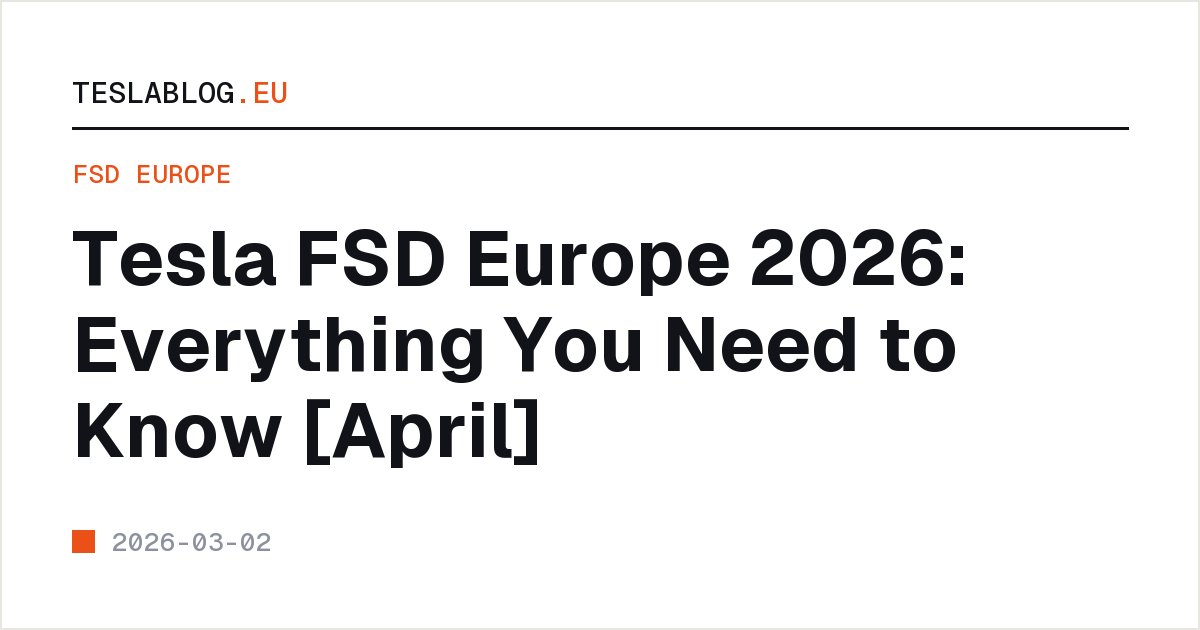
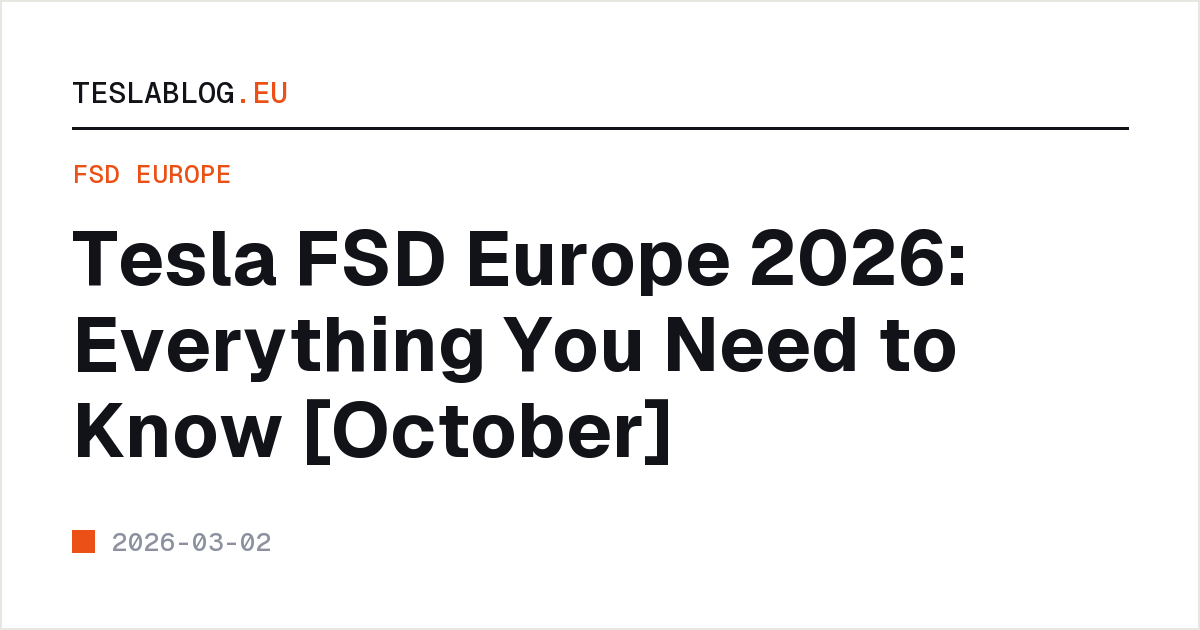
Remove [Active] from referral guide title; regenerate og cards for retitled posts; refresh feed

Changed region(s): [[0.2775, 0.6333, 0.555, 0.754]]

diff --git a/blog/tesla-referral-code-europe/index.html b/blog/tesla-referral-code-europe/index.html
@@ -3,7 +3,7 @@
 <head>
  <meta charset="UTF-8">
  <meta name="viewport" content="width=device-width, initial-scale=1.0">
- <title>Tesla Referral Code Europe 2026: How It Works on Model 3 &amp; Y [Active]</title>
+ <title>Tesla Referral Code Europe 2026: How It Works and Current Status</title>
  <meta name="description" content="How Tesla referrals work in Europe in 2026: current status, limits, and how to verify an active code before ordering.">
  <meta name="robots" content="index, follow, max-snippet:-1, max-image-preview:large">
  <link rel="canonical" href="https://teslablog.eu/blog/tesla-referral-code-europe/">
@@ -11,7 +11,7 @@
  <link rel="alternate" hreflang="x-default" href="https://teslablog.eu/blog/tesla-referral-code-europe/">
  <meta property="og:type" content="article">
  <meta property="og:url" content="https://teslablog.eu/blog/tesla-referral-code-europe/">
- <meta property="og:title" content="Tesla Referral Code Europe 2026: How It Works on Model 3 &amp; Y [Active]">
+ <meta property="og:title" content="Tesla Referral Code Europe 2026: How It Works and Current Status">
  <meta property="og:description" content="How Tesla referrals work in Europe in 2026: current status, limits, and how to verify an active code before ordering.">
  <meta property="og:image" content="https://teslablog.eu/assets/og/tesla-referral-code-europe.png">
  <meta property="og:site_name" content="TeslaBlog.eu">
@@ -21,7 +21,7 @@
  {
  "@context": "https://schema.org",
  "@type": "Article",
- "headline": "Tesla Referral Code Europe 2026: How It Works on Model 3 & Y [Active]",
+ "headline": "Tesla Referral Code Europe 2026: How It Works and Current Status",
  "description": "How Tesla referral codes work in Europe, how to verify an active referral before ordering, and why benefits vary by country, model, and date.",
  "url": "https://teslablog.eu/blog/tesla-referral-code-europe/",
  "datePublished": "2026-01-15",

diff --git a/blog/index.html b/blog/index.html
@@ -451,7 +451,7 @@
       <div class="tb-arow">
         <span class="tb-date">MAR 02</span>
         <div class="tb-abody">
-          <a class="tb-atitle" href="/blog/tesla-fsd-europe-2026-when-how/">Tesla FSD Europe 2026: Everything You Need to Know [April]</a>
+          <a class="tb-atitle" href="/blog/tesla-fsd-europe-2026-when-how/">Tesla FSD Europe 2026: Everything You Need to Know [October]</a>
           <a class="tb-tag" href="/blog/tesla-fsd-europe-2026-when-how/">FSD Europe ↗</a>
         </div>
       </div>
@@ -563,7 +563,7 @@
       <div class="tb-arow">
         <span class="tb-date">JAN 15</span>
         <div class="tb-abody">
-          <a class="tb-atitle" href="/blog/tesla-referral-code-europe/">Tesla Referral Code Europe 2026: How It Works on Model 3 &amp; Y [Active]</a>
+          <a class="tb-atitle" href="/blog/tesla-referral-code-europe/">Tesla Referral Code Europe 2026: How It Works and Current Status</a>
           <a class="tb-tag" href="/blog/tesla-referral-code-europe/">Guide ↗</a>
         </div>
       </div>
